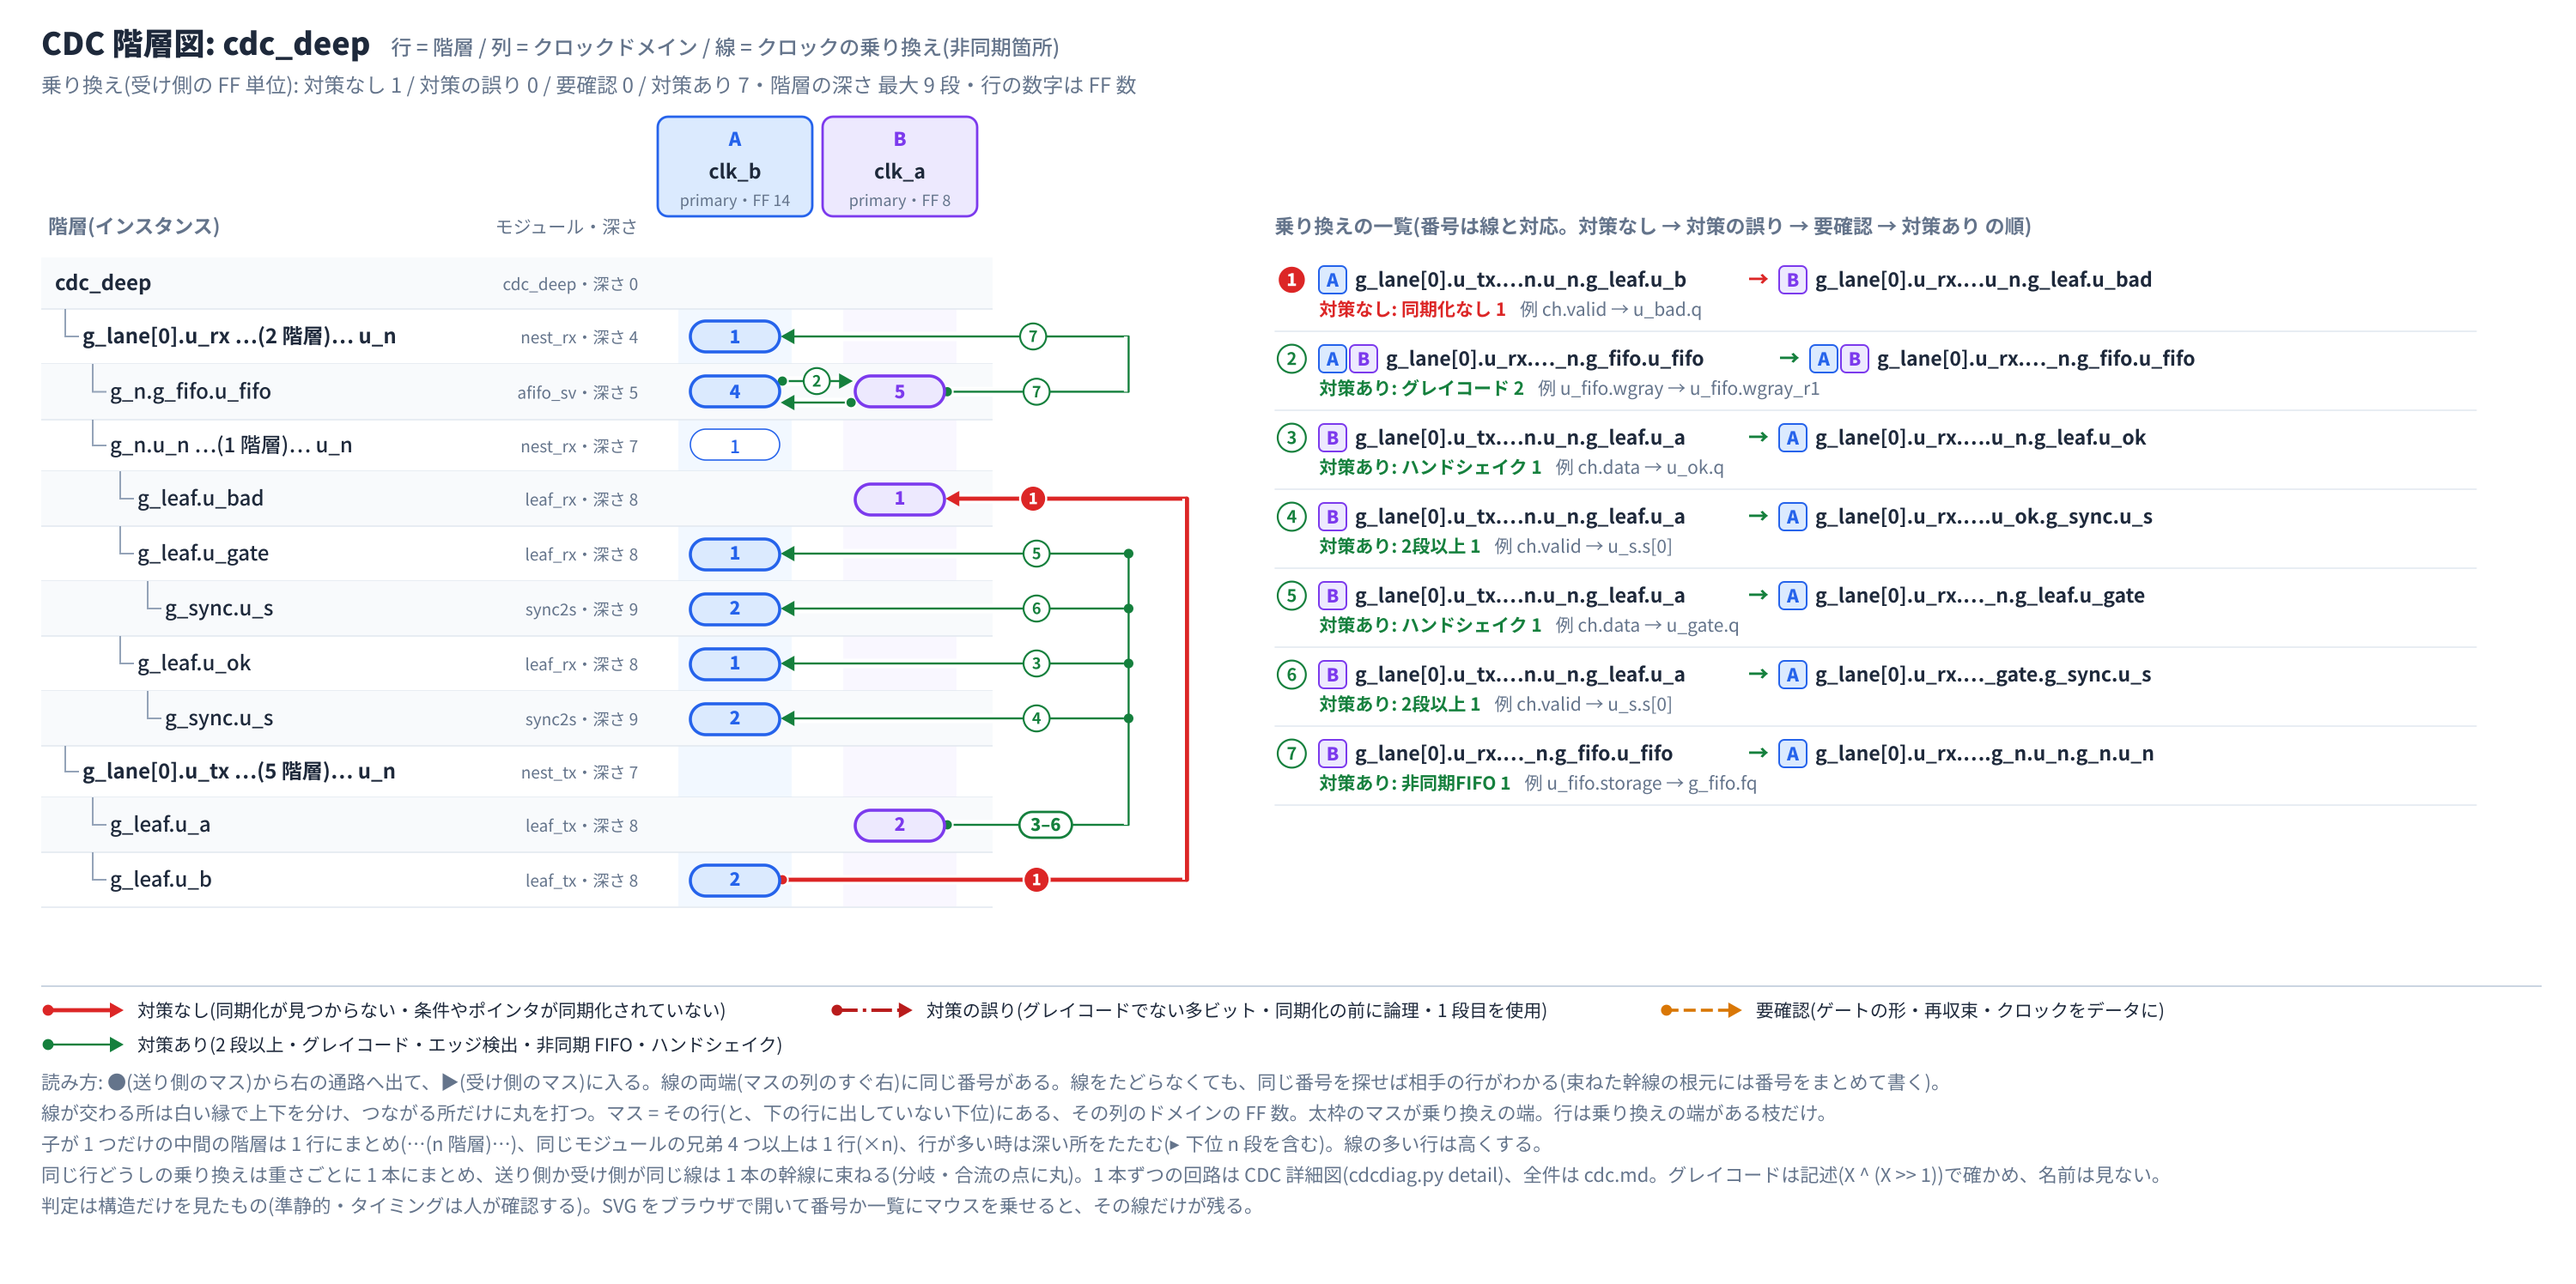
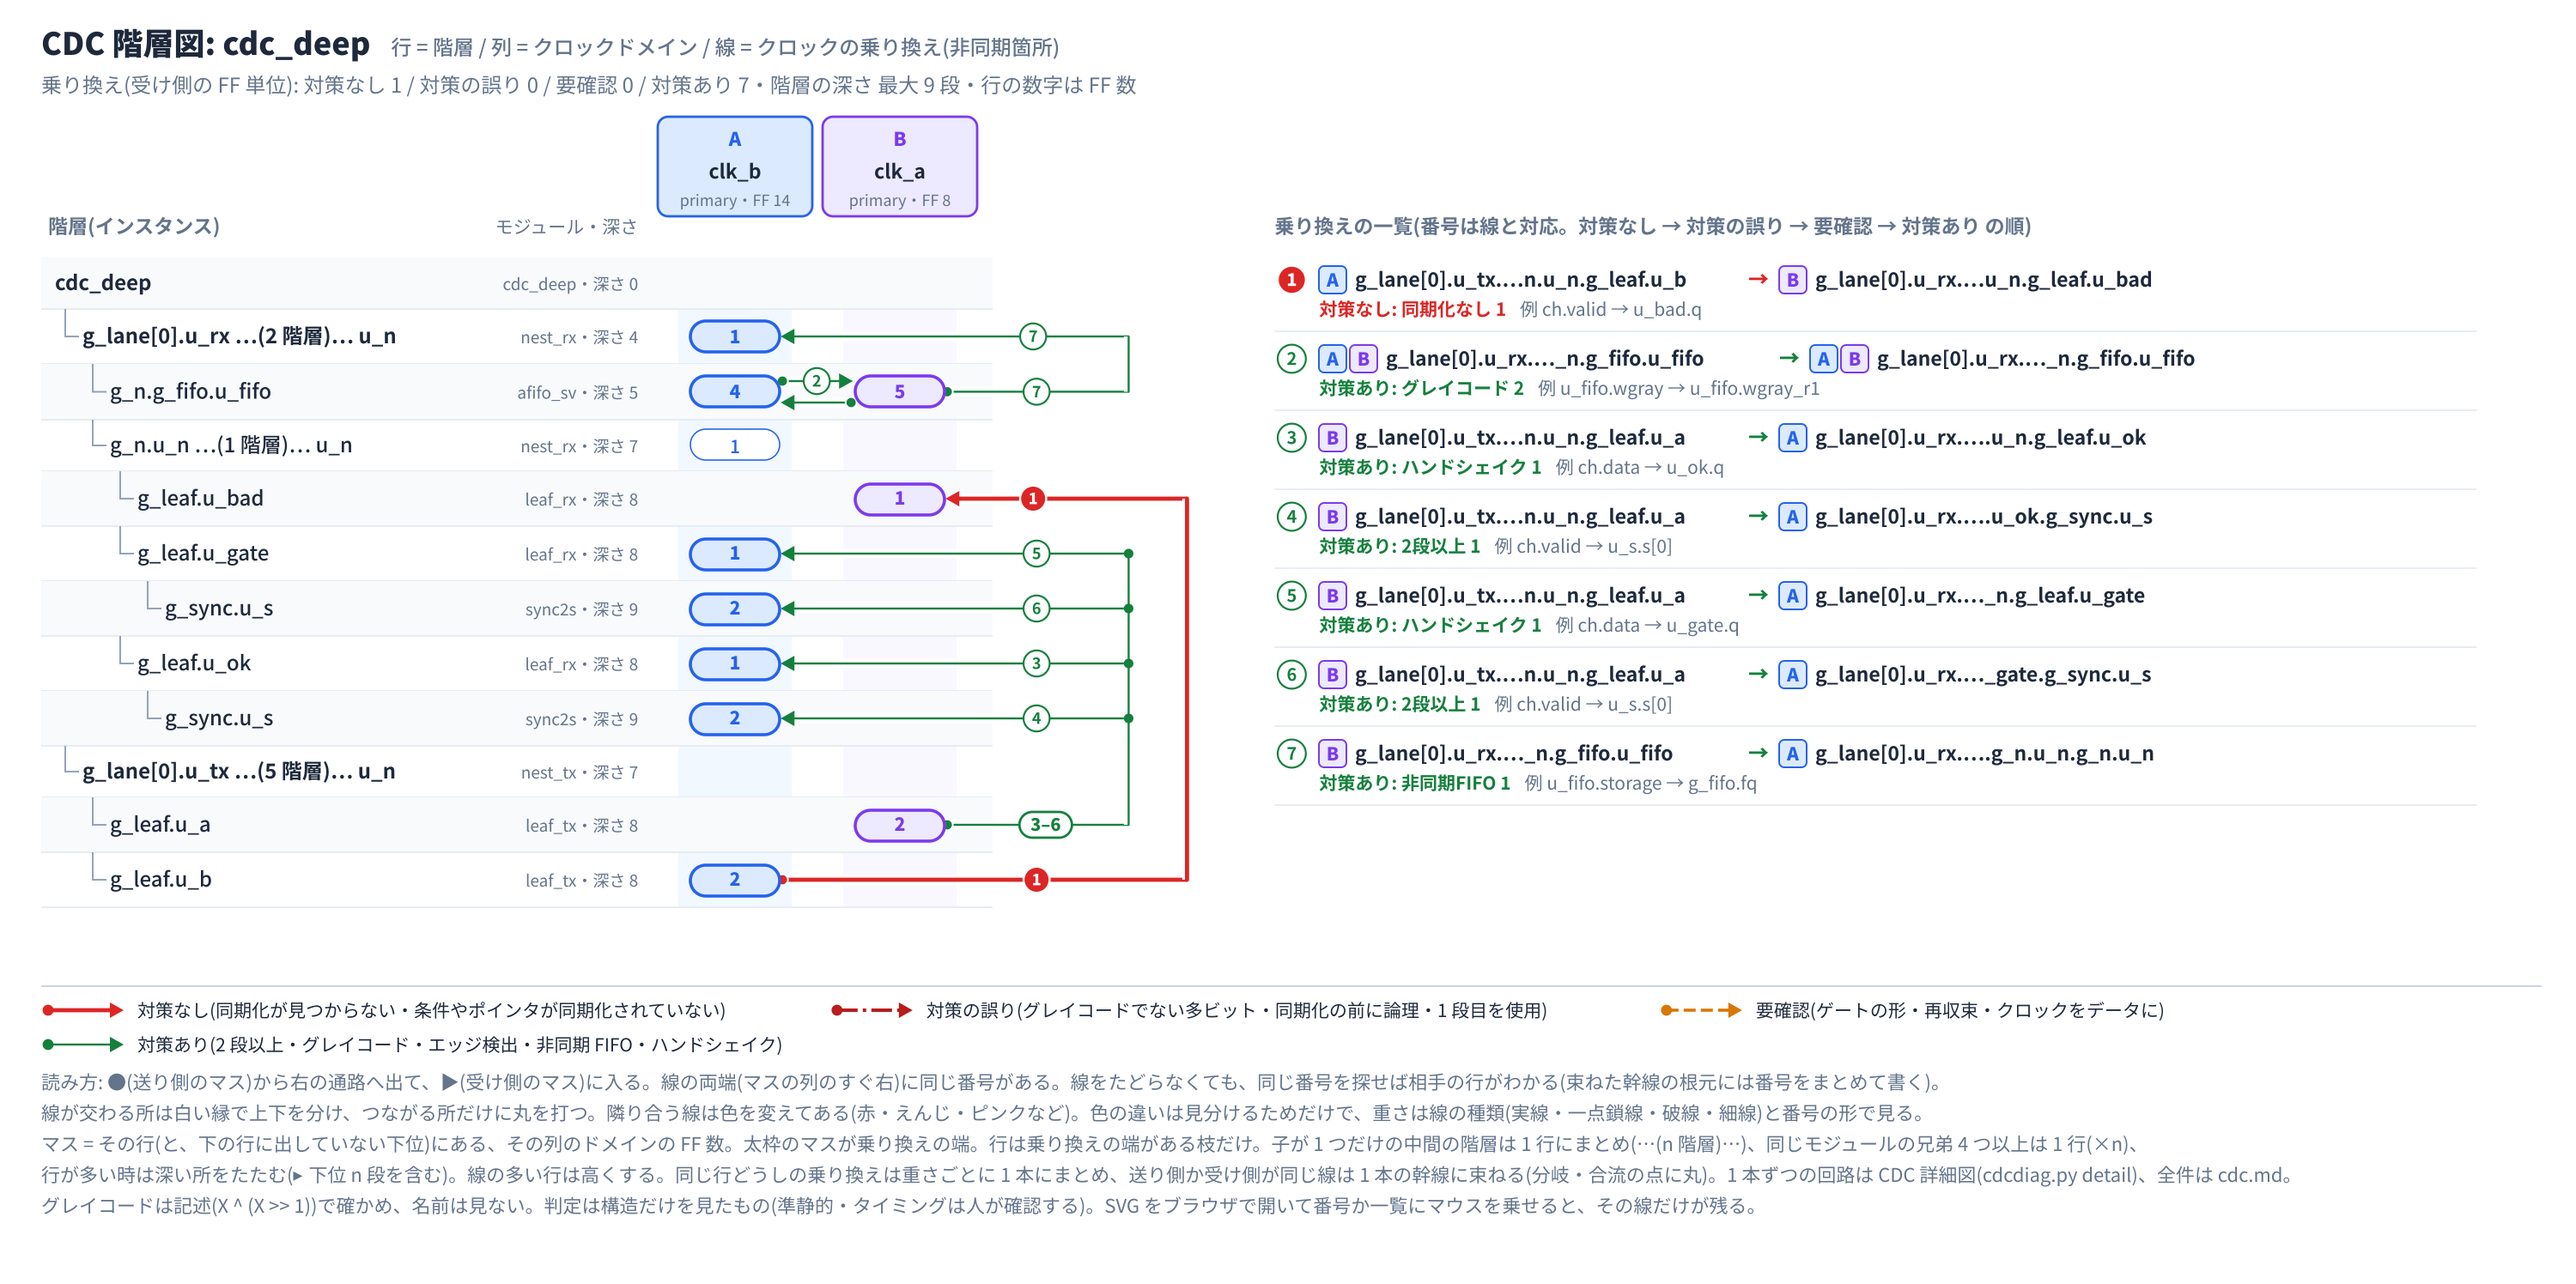
CDC 階層図: 隣り合う線の色を変える(同じ重さの中で 3 色。重さは線の種類と番号の形で示す)。--mono で 1 色
Claude-Session: https://claude.ai/code/session_01XXd7JvWVmuTTSSCjMKzXau

Changed region(s): [[0.0, 0.861, 0.868, 0.9532]]

diff --git a/scripts/cdcdiag.py b/scripts/cdcdiag.py
@@ -19,6 +19,9 @@ from rtldb import OK_CLASSES, INFO, REVIEW, BAD, NONE, WRONG, CLASS_JA
 GRAY = "#64748b"
 SEV = {"none": ("#dc2626", "対策なし"), "wrong": ("#b91c1c", "対策の誤り"), "review": ("#d97706", "要確認"), "ok": ("#15803d", "対策あり"),
        "info": ("#64748b", "準静的")}
+# 隣り合う線を見分けるための色の違い(同じ重さの中で 3 色)。重さは線の種類と番号の形で示すので、色の違いに意味はない
+TONES = {"none": ["#dc2626", "#7f1d1d", "#db2777"], "wrong": ["#dc2626", "#7f1d1d", "#db2777"],
+         "review": ["#d97706", "#854d0e", "#ca8a04"], "ok": ["#15803d", "#0f766e", "#65a30d"], "info": ["#64748b", "#334155", "#94a3b8"]}
 ORDER = {"none": 0, "wrong": 1, "review": 2, "ok": 3, "info": 4}
 STROKE = {"none": 'stroke-width="2.4"', "wrong": 'stroke-width="2" stroke-dasharray="12 3 2 3"',
           "review": 'stroke-width="1.8" stroke-dasharray="7 3"', "ok": 'stroke-width="1.2"', "info": 'stroke-width="1.2" stroke-dasharray="2 3"'}
@@ -37,6 +40,7 @@ LEG_ITEMS = {"none": "対策なし(同期化が見つからない・条件やポ
 LEG_TEXT = ["読み方: ●(送り側のマス)から右の通路へ出て、▶(受け側のマス)に入る。",
             "線の両端(マスの列のすぐ右)に同じ番号がある。線をたどらなくても、同じ番号を探せば相手の行がわかる(束ねた幹線の根元には番号をまとめて書く)。",
             "線が交わる所は白い縁で上下を分け、つながる所だけに丸を打つ。",
+            "隣り合う線は色を変えてある(赤・えんじ・ピンクなど)。色の違いは見分けるためだけで、重さは線の種類(実線・一点鎖線・破線・細線)と番号の形で見る。",
             "マス = その行(と、下の行に出していない下位)にある、その列のドメインの FF 数。太枠のマスが乗り換えの端。",
             "行は乗り換えの端がある枝だけ。", "子が 1 つだけの中間の階層は 1 行にまとめ(…(n 階層)…)、同じモジュールの兄弟 4 つ以上は 1 行(×n)、",
             "行が多い時は深い所をたたむ(▸ 下位 n 段を含む)。", "線の多い行は高くする。",
@@ -77,7 +81,7 @@ def tail(p, n=2):
 
 
 # ================= CDC 階層図 =================
-def hier(db, out, focus=None, max_rows=36, max_arcs=28, png=False, name="cdc_hier", sevs=None, gap=14, lane=34):
+def hier(db, out, focus=None, max_rows=36, max_arcs=28, png=False, name="cdc_hier", sevs=None, gap=14, lane=34, tones=True):
     """gap = 同じ行に出入りする線どうしの間隔(px)、lane = 縦の幹線どうしの間隔(px)。広げると追いやすく、図は大きくなる"""
     top = db.execute("SELECT value FROM meta WHERE key='top'").fetchone()[0]
     I = {r[0]: dict(id=r[0], path=r[1], name=r[2], module=r[3], parent=r[4], depth=r[5])
@@ -285,6 +289,30 @@ def hier(db, out, focus=None, max_rows=36, max_arcs=28, png=False, name="cdc_hie
                 a["gx"] = xo
                 xo += 26
         G = max(G, xo + 8)
+    # 色: 同じ行で隣り合う線、隣の通路の幹線とは違う色にする(同じ重さの色の中から、まだ使っていないものを選ぶ)
+    adj = collections.defaultdict(set)
+    for r, lst in stubs.items():
+        for (_, _, t1, _), (_, _, t2, _) in zip(lst, lst[1:]):
+            if t1 is not t2:
+                adj[id(t1)].add(id(t2)); adj[id(t2)].add(id(t1))
+    for t1 in trunks:
+        for t2 in trunks:
+            if t1 is not t2 and abs(t1["lane"] - t2["lane"]) == 1 and t1["lo"] <= t2["hi"] and t2["lo"] <= t1["hi"]:
+                adj[id(t1)].add(id(t2))
+    tone = {}
+    for t in sorted(trunks, key=lambda t: (t["lane"], t["lo"])):
+        fam = TONES[t["sev"]] if tones else [SEV[t["sev"]][0]]
+        used = collections.Counter(tone[x] for x in adj[id(t)] if x in tone)
+        t["c"] = min(fam, key=lambda c: (used[c], fam.index(c)))
+        tone[id(t)] = t["c"]
+        for a in t["mem"]:
+            a["c"] = t["c"]
+    nself = collections.Counter()
+    for a in arcs:
+        if a["rs"] == a["rd"]:                            # 同じ行の中の線: 行の中で順に色を変える
+            fam = TONES[a["sev"]] if tones else [SEV[a["sev"]][0]]
+            a["c"] = fam[nself[a["rs"]] % len(fam)]
+            nself[a["rs"]] += 1
     # 行の高さ: 出入りする線が多い行だけ高くし、線を STEP 刻みで離す
     selfn = collections.defaultdict(lambda: [0, 0])       # 同じ行の中の線: 右向き・左向きの本数
     for a in arcs:
@@ -377,7 +405,7 @@ def hier(db, out, focus=None, max_rows=36, max_arcs=28, png=False, name="cdc_hie
     PW = 52
     px = lambda d: XC + col[d] * CW + CW / 2 + PW / 2      # マスの右端
     def badge(x, y, a, r=8.2):
-        c = SEV[a["sev"]][0]
+        c = a["c"]
         fs = 10 if r >= 8 else 9
         if a["sev"] == "wrong":                           # 対策の誤り: 四角
             return (f'<rect x="{x - r:.1f}" y="{y - r:.1f}" width="{2 * r}" height="{2 * r}" rx="2.5" fill="{c}" stroke="#fff" stroke-width="1.2"/>'
@@ -398,7 +426,7 @@ def hier(db, out, focus=None, max_rows=36, max_arcs=28, png=False, name="cdc_hie
     for a in sorted(arcs, key=lambda a: -order[a["sev"]]):
         if a["rs"] != a["rd"]:
             continue
-        c, st = SEV[a["sev"]][0], STROKE[a["sev"]]         # 同じ行の中: マスからマスへまっすぐ(右向きは上、左向きは下に 6px 刻み)
+        c, st = a["c"], STROKE[a["sev"]]                   # 同じ行の中: マスからマスへまっすぐ(右向きは上、左向きは下に 6px 刻み)
         cls = f'ln m{a["no"]} h{a["no"]}'
         for k, (sc, dc) in enumerate(a["pairs"]):
             right = col[dc] > col[sc]
@@ -424,7 +452,7 @@ def hier(db, out, focus=None, max_rows=36, max_arcs=28, png=False, name="cdc_hie
             o.append(f'<path d="M{px(d) + 1:.1f},{y:.1f} l8,-4.5 v9 z" fill="{c}" class="{cls}"/>')
     bycol = lambda ds: sorted(set(ds), key=lambda d: col[d])
     for t in sorted(trunks, key=lambda t: -order[t["sev"]]):
-        c, st = SEV[t["sev"]][0], STROKE[t["sev"]]
+        c, st = t["c"], STROKE[t["sev"]]
         lx = XLN + t["lane"] * LW + LW / 2
         tcls = "ln " + " ".join(f'm{a["no"]}' for a in t["mem"])       # 幹線: 束ねた線のどれを選んでも残す
         if len(t["mem"]) == 1:
@@ -730,6 +758,7 @@ def main():
     h.add_argument("--name", default="cdc_hier")
     h.add_argument("--gap", type=int, default=14, help="同じ行に出入りする線どうしの間隔(px)。既定 14")
     h.add_argument("--lane", type=int, default=34, help="縦の幹線どうしの間隔(px)。既定 34")
+    h.add_argument("--mono", action="store_true", help="隣り合う線の色を変えない(重さごとに 1 色)")
     h.add_argument("--sev", help="線にする重さ(none,wrong,review,ok,info をカンマ区切り。bad = none,wrong)。既定は全部(重い順に --arcs 本まで)")
     d = sub.add_parser("detail")
     d.add_argument("db"); d.add_argument("--dst", required=True); d.add_argument("-o", "--out", default="cdc_detail.yaml")
@@ -737,7 +766,7 @@ def main():
     db = sqlite3.connect(g.db)
     if g.cmd == "hier":
         p, st = hier(db, g.out, g.focus, g.rows, g.arcs, g.png, g.name, set(g.sev.replace("bad", "none,wrong").split(",")) if g.sev else None,
-                     g.gap, g.lane)
+                     g.gap, g.lane, not g.mono)
         print(f"生成: {p}(行 {st['rows']} / 線 {st['arcs']}" + (f" + 省略 {st['rest']}" if st["rest"] else "") + f" / 階層の深さ {st['depth']})")
     else:
         import yaml

diff --git a/diagrams/cdc/GUIDE.md b/diagrams/cdc/GUIDE.md
@@ -99,10 +99,10 @@ python3 scripts/gatediag.py render out/cdc_x.yaml -o out/ --png                 
 ## 分類と線(4 段)
 | 重さ | 線・番号の形 | 分類 | 意味 |
 |---|---|---|---|
-| **対策なし** | 赤・太い実線、塗りの丸 | `no_sync` 同期化が見つからない / `data_enable` 取り込みの条件が同期化されていない / `mem` メモリのポインタの同期化がない | 対策忘れの疑い |
-| **対策の誤り** | 赤・一点鎖線、塗りの四角 | `sync_bus` グレイコードでない多ビットを FF で同期化 / `sync_logic` 同期化の前に論理 / `sync_tap` 1 段目の出力を使用 | 同期化はあるが効かない |
-| 要確認 | 橙・破線、白地に橙の丸 | `gated` 同期化した信号と論理で合わせる / `reconv` 再収束 / `clk_as_data` クロックをデータに | 形はあるが、人が確かめる |
-| 対策あり | 緑・細い実線、白地に緑の丸 | `sync` 2 段以上 / `sync_gray` グレイコード / `sync_pulse` エッジ検出 / `fifo` 非同期 FIFO / `handshake` | 構造として対策がある |
+| **対策なし** | 赤系・太い実線、塗りの丸 | `no_sync` 同期化が見つからない / `data_enable` 取り込みの条件が同期化されていない / `mem` メモリのポインタの同期化がない | 対策忘れの疑い |
+| **対策の誤り** | 赤系・一点鎖線、塗りの四角 | `sync_bus` グレイコードでない多ビットを FF で同期化 / `sync_logic` 同期化の前に論理 / `sync_tap` 1 段目の出力を使用 | 同期化はあるが効かない |
+| 要確認 | 橙系・破線、白地に橙の丸 | `gated` 同期化した信号と論理で合わせる / `reconv` 再収束 / `clk_as_data` クロックをデータに | 形はあるが、人が確かめる |
+| 対策あり | 緑系・細い実線、白地に緑の丸 | `sync` 2 段以上 / `sync_gray` グレイコード / `sync_pulse` エッジ検出 / `fifo` 非同期 FIFO / `handshake` | 構造として対策がある |
 
 **グレイコードは名前で判断しない。** 代入の記述(`X ^ (X >> 1)` など。`reference/rtldb.md`)で確かめる。
 グレイコードの記述があるだけでは何も指摘しない(非同期とは限らない)。乗り換えで多ビットを FF で同期化している所で、
@@ -131,6 +131,10 @@ python3 scripts/gatediag.py render out/cdc_x.yaml -o out/ --png                 
 - **線を追いやすくする**:
   - 線の両端に同じ番号を置く。置く場所は、マスの列のすぐ右の「番号の帯」(通路の左)。行の中では通路の内側の順に、左から右へ階段状に並べる。
     線をたどらなくても、同じ番号を探せば相手の行がわかる。束ねた幹線の根元には、束ねた線の番号をまとめて書く(`3–6`、`10,21,23–28`)。
+  - 隣り合う線は色を変える。同じ重さの中で 3 色を用意し(対策なし・誤り = 赤 / えんじ / ピンク、要確認 = 橙 / 茶 / 黄土、対策あり = 緑 / 青緑 / 黄緑)、
+    同じ行で隣り合う線・隣の通路の幹線がまだ使っていない色を選ぶ。番号の色も線と同じにする(一覧の番号も)。
+    色の違いは見分けるためだけで意味はない。重さは線の種類(実線・一点鎖線・破線・細線)と番号の形(塗りの丸・塗りの四角・白地の丸)で示す。
+    1 色に戻す時は `--mono`。
   - 線には白い縁(5.5px)をつけ、交わる所で上下が分かれて見えるようにする。つながる所(分岐・合流)にだけ丸を打つ。
   - SVG をブラウザで開いた時は、番号か一覧の行にマウスを乗せると、その線だけが残る(ほかは薄くなる)。資料に貼る PNG には影響しない。
 - 線は重い順・件数の多い順に番号を振り、`--arcs`(既定 28)本まで描く。残りは一覧の最後に組数だけ書く。`--sev` で描く重さを絞れる。
